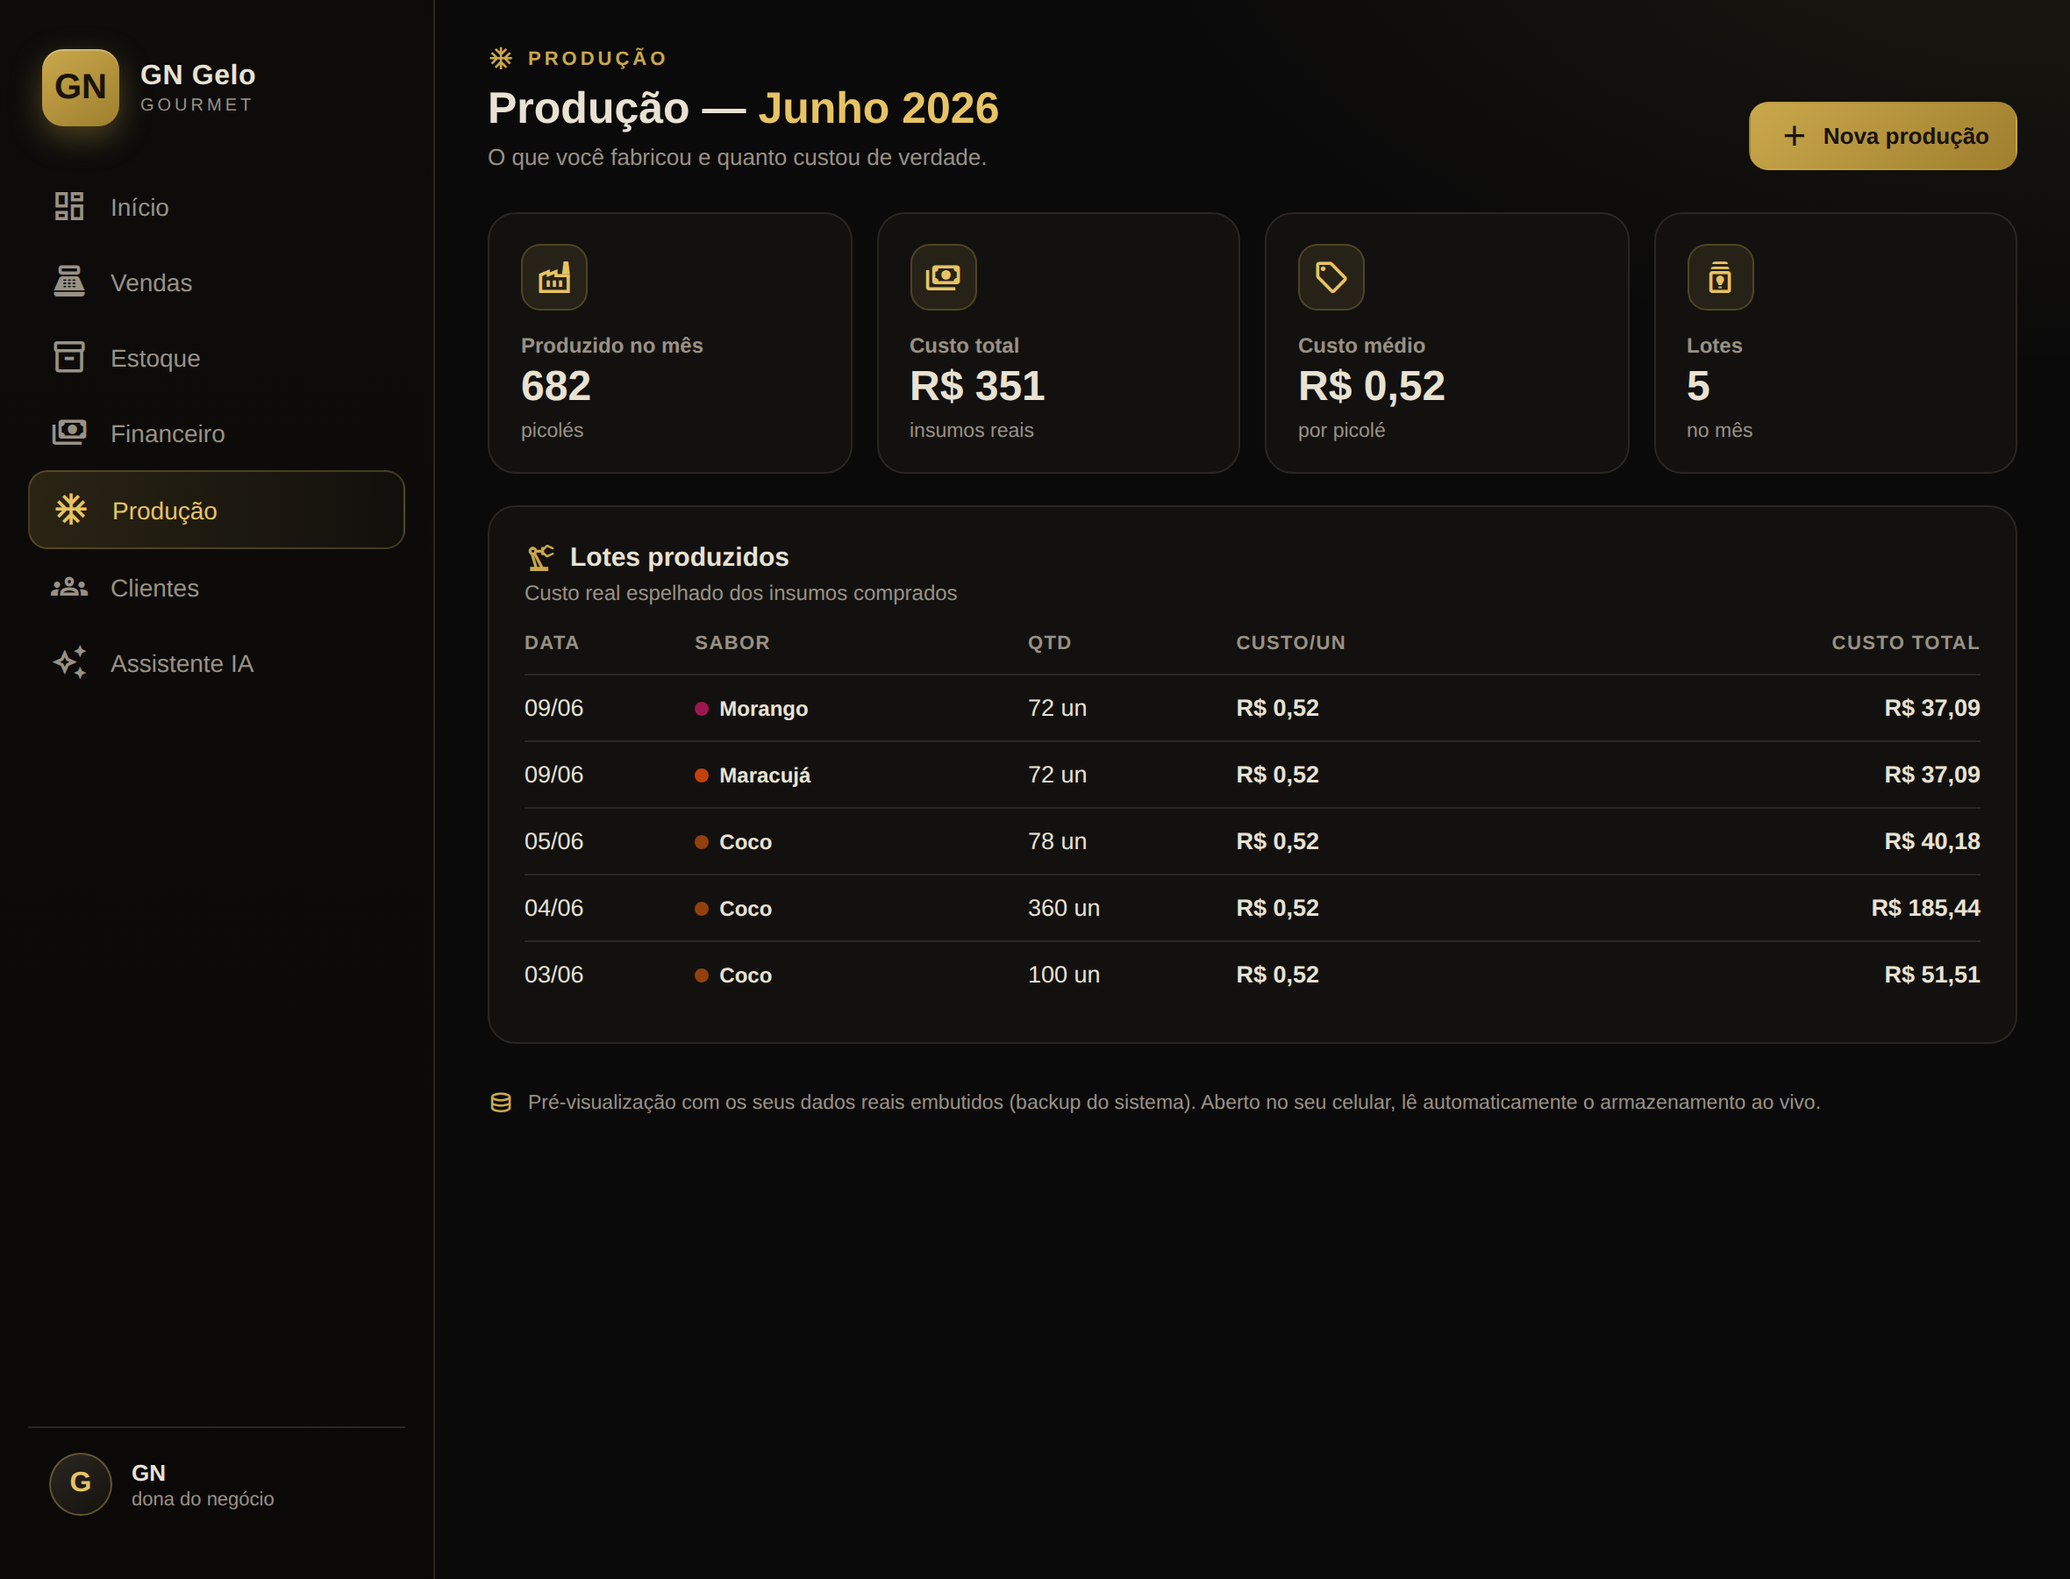
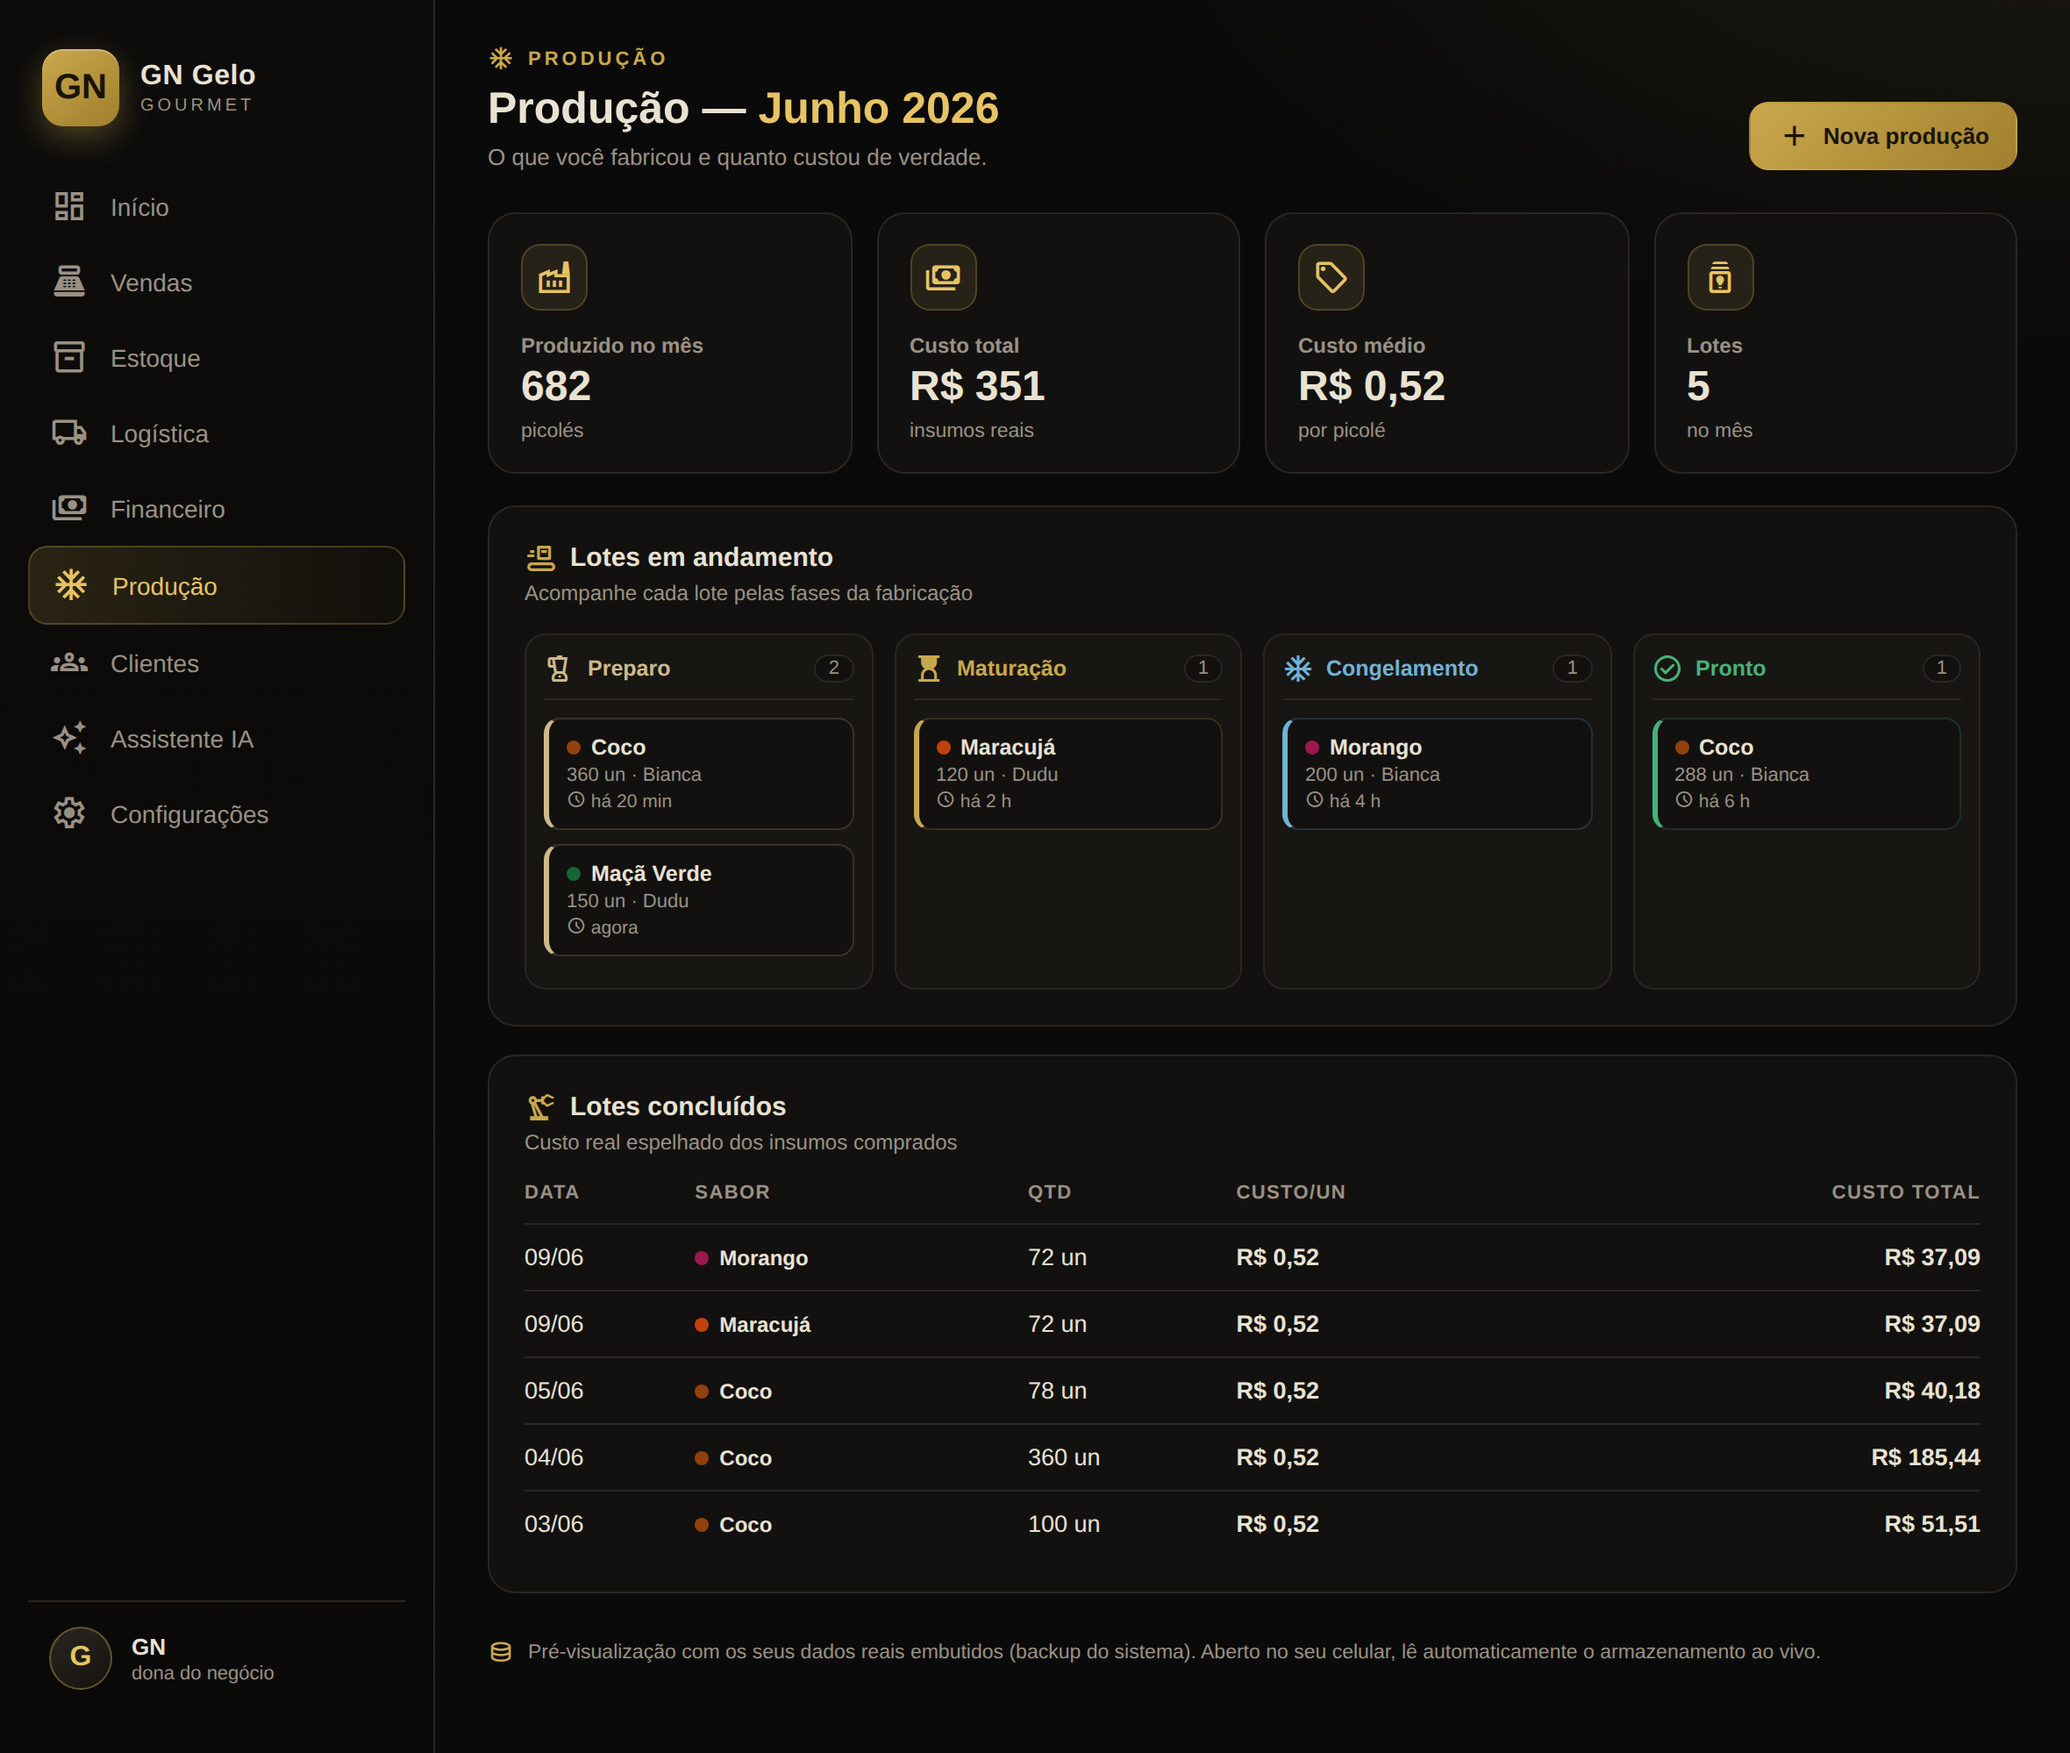
Preview: quadro de Lotes em andamento por fase de fabricacao (recurso novo #3)
Kanban Preparo -> Maturacao -> Congelamento -> Pronto na tela de Producao,
com lote (sabor, qtd, responsavel, tempo). Mantem a tabela de lotes concluidos.

Claude-Session: https://claude.ai/code/session_01RocrFdSgqpqjfRy7x3VDmm

diff --git a/preview-dashboard-premium.html b/preview-dashboard-premium.html
@@ -363,8 +363,13 @@
       <div class="kpi"><div class="ic"><span class="sym">sell</span></div><div class="k-lbl">Custo médio</div><div class="k-val" id="pr-med">—</div><div class="k-foot">por picolé</div></div>
       <div class="kpi"><div class="ic"><span class="sym">batch_prediction</span></div><div class="k-lbl">Lotes</div><div class="k-val" id="pr-n">—</div><div class="k-foot">no mês</div></div>
     </div>
+    <div class="card" style="margin-bottom:16px">
+      <h3><span class="sym">conveyor_belt</span>Lotes em andamento</h3>
+      <div class="csub">Acompanhe cada lote pelas fases da fabricação</div>
+      <div id="pr-kanban" style="display:grid;grid-template-columns:repeat(4,1fr);gap:12px;margin-top:6px"></div>
+    </div>
     <div class="card">
-      <h3><span class="sym">precision_manufacturing</span>Lotes produzidos</h3>
+      <h3><span class="sym">precision_manufacturing</span>Lotes concluídos</h3>
       <div class="csub">Custo real espelhado dos insumos comprados</div>
       <table><thead><tr><th>Data</th><th>Sabor</th><th>Qtd</th><th>Custo/un</th><th>Custo total</th></tr></thead><tbody id="pr-tab"></tbody></table>
     </div>
@@ -487,8 +492,22 @@ const SEED={
   {nome:"Bianca",email:"bianca@gngelo.app",papel:"Gerente",area:"Produção",status:"Ativo"},
   {nome:"Dudu",email:"dudu@gngelo.app",papel:"Vendedor",area:"Vendas",status:"Ativo"},
   {nome:"Carlos",email:"carlos@gngelo.app",papel:"Operador",area:"Logística",status:"Bloqueado"}
+ ],
+ lotesAndamento:[
+  {sabor:"coco",qtd:360,resp:"Bianca",fase:"Preparo",ha:"há 20 min"},
+  {sabor:"maracuja",qtd:120,resp:"Dudu",fase:"Maturação",ha:"há 2 h"},
+  {sabor:"morango",qtd:200,resp:"Bianca",fase:"Congelamento",ha:"há 4 h"},
+  {sabor:"coco",qtd:288,resp:"Bianca",fase:"Pronto",ha:"há 6 h"},
+  {sabor:"maca",qtd:150,resp:"Dudu",fase:"Preparo",ha:"agora"}
  ]
 };
+// Fases da fabricação (na ordem)
+const FASES=[
+ {nome:"Preparo",ic:"blender",cor:"#cdb98a"},
+ {nome:"Maturação",ic:"hourglass_top",cor:"#C9A84C"},
+ {nome:"Congelamento",ic:"ac_unit",cor:"#6fb3d4"},
+ {nome:"Pronto",ic:"check_circle",cor:"#46b17b"}
+];
 // Papéis e o que cada um pode fazer
 const PAPEIS={
  "Administrador":{cor:"#C9A84C",ic:"shield_person",desc:"Acesso total: vendas, financeiro, equipe e configurações."},
@@ -705,6 +724,23 @@ function renderProducao(){
     <tr><td>${fmtD(p.data)}</td><td>${tagSabor(p.sabor)}</td><td>${p.qtd} un</td>
     <td class="money">${R(p.custoPorUnid)}</td><td class="money">${R((p.qtd||0)*(p.custoPorUnid||0))}</td></tr>`).join("")
     ||'<tr><td colspan="5" class="csub" style="padding-top:14px">Sem produção no mês.</td></tr>';
+  // Quadro de fases (lotes em andamento)
+  const lotes=(get("lotesAndamento",null)&&get("lotesAndamento",[]).length)?get("lotesAndamento",[]):SEED.lotesAndamento;
+  document.getElementById("pr-kanban").innerHTML=FASES.map(f=>{
+    const itens=lotes.filter(l=>l.fase===f.nome);
+    return `<div style="background:var(--panel2);border:1px solid var(--line);border-radius:12px;padding:10px;min-height:120px">
+      <div style="display:flex;align-items:center;gap:7px;margin-bottom:10px;padding-bottom:8px;border-bottom:1px solid var(--line)">
+        <span class="sym" style="color:${f.cor};font-size:18px">${f.ic}</span>
+        <b style="font-size:12.5px;color:${f.cor}">${f.nome}</b>
+        <span style="margin-left:auto;font-size:11px;color:var(--muted);background:var(--panel);border:1px solid var(--line);border-radius:999px;padding:1px 7px">${itens.length}</span>
+      </div>
+      ${itens.map(l=>`<div style="background:var(--panel);border:1px solid ${f.cor}33;border-left:3px solid ${f.cor};border-radius:9px;padding:9px 10px;margin-bottom:8px">
+        <div style="display:flex;align-items:center;gap:6px;font-size:12.5px;font-weight:700"><span class="dot" style="background:${CC[l.sabor]||'#888'}"></span>${SB[l.sabor]||l.sabor}</div>
+        <div style="font-size:11px;color:var(--muted);margin-top:3px">${l.qtd} un · ${l.resp}</div>
+        <div style="font-size:10.5px;color:var(--muted);margin-top:2px"><span class="sym" style="font-size:11px;vertical-align:-1px">schedule</span> ${l.ha}</div>
+      </div>`).join("")||'<div style="font-size:11px;color:var(--muted);opacity:.6;text-align:center;padding:14px 0">—</div>'}
+    </div>`;
+  }).join("");
 }
 
 /* ===== TELA CLIENTES ===== */
